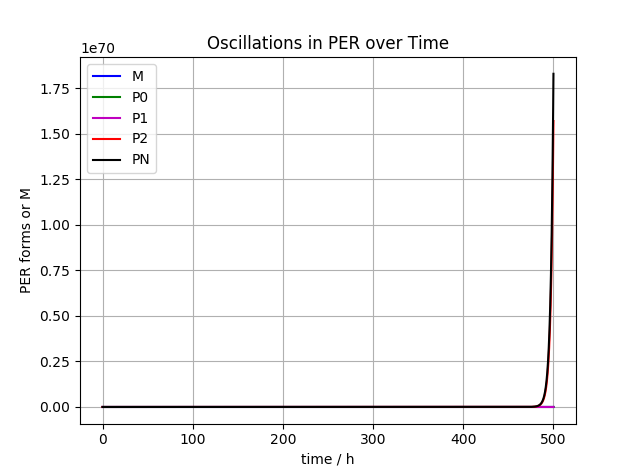
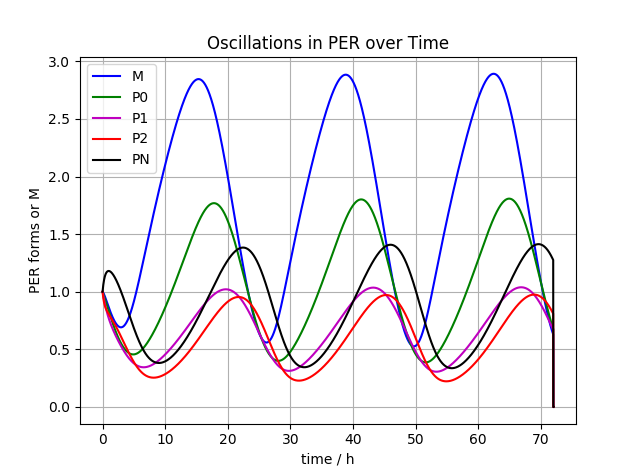
Made Oscillation Work
Made a simple fix (Thanks Stephanie!).

diff --git a/Project 2/python/main.py b/Project 2/python/main.py
@@ -5,92 +5,92 @@ from odes import feed_forward
 from odes import neg_feedback
 from ode_utils import ode15s
 
-"""
-Activator Cascade
-"""
-
-# parameters
-vy_max = 1 # (in units of nM^-1s^-1)
-ky =  .5 # (in units of nM)
-ny = 2
-dy = .1
-vz_max = 1 # (in units of nM^-1s^-1)
-kz = .5 # (in units of nM)
-nz = 2
-dz = .1
-
-params = [vy_max, ky, ny, dy, vz_max, kz, nz, dz]
-
-#initial conditions
-Y0 = 0
-Z0 = 0
-
-yinit = [Y0, Z0]
-
-t0 = 0
-dt = .1
-tf = 150
-
-# Input variable
-for i in range(1,2):
-    X_star = np.array([0]*500 + [i] * 1002).T
-
-    t, sol = ode15s(activator_cascade, yinit, t0, dt, tf, params, inputs=X_star)
-
-    plt.plot(t, X_star, 'b', label='X*')
-    plt.plot(t, sol[:, 0], 'g', label='Y')
-    plt.plot(t, sol[:, 1], 'm', label='Z')
-    plt.legend(loc='best')
-    plt.xlabel('time (s)')
-    plt.ylabel('concentrations (nM)')
-    plt.title('Activator Cascade')
-    plt.grid()
-    plt.show()
-
-
-"""
-Feed-Forward Loop
-"""
-
-# parameters
-vy_max = 1 # (in units of nM^-1s^-1)
-ky =  .5 # (in units of nM)
-ny = 2
-dy = .1
-vz_max = 1 # (in units of nM^-1s^-1)
-kzx = .5 # (in units of nM)
-nzx = 2
-kzy = .5 # (in units of nM)
-nzy = 2
-dz = .1
-
-params = [vy_max, ky, ny, dy, vz_max, kzx, nzx, kzy, nzy, dz]
-
-#initial conditions
-Y0 = 0
-Z0 = 0
-
-yinit = [Y0, Z0]
-
-t0 = 0
-dt = .1
-tf = 150
-
-# Input variable
-for i in range(1,2):
-    X_star = np.array([0]*500 + [i] * 1002).T
-
-    t, sol = ode15s(feed_forward, yinit, t0, dt, tf, params, inputs=X_star)
-
-    plt.plot(t, X_star, 'b', label='X*')
-    plt.plot(t, sol[:, 0], 'g', label='Y')
-    plt.plot(t, sol[:, 1], 'm', label='Z')
-    plt.legend(loc='best')
-    plt.xlabel('time (s)')
-    plt.ylabel('concentrations (nM)')
-    plt.title('Feed-Forward Loop')
-    plt.grid()
-    plt.show()
+# """
+# Activator Cascade
+# """
+#
+# # parameters
+# vy_max = 1 # (in units of nM^-1s^-1)
+# ky =  .5 # (in units of nM)
+# ny = 2
+# dy = .1
+# vz_max = 1 # (in units of nM^-1s^-1)
+# kz = .5 # (in units of nM)
+# nz = 2
+# dz = .1
+#
+# params = [vy_max, ky, ny, dy, vz_max, kz, nz, dz]
+#
+# #initial conditions
+# Y0 = 0
+# Z0 = 0
+#
+# yinit = [Y0, Z0]
+#
+# t0 = 0
+# dt = .1
+# tf = 150
+#
+# # Input variable
+# for i in range(1,2):
+#     X_star = np.array([0]*500 + [i] * 1002).T
+#
+#     t, sol = ode15s(activator_cascade, yinit, t0, dt, tf, params, inputs=X_star)
+#
+#     plt.plot(t, X_star, 'b', label='X*')
+#     plt.plot(t, sol[:, 0], 'g', label='Y')
+#     plt.plot(t, sol[:, 1], 'm', label='Z')
+#     plt.legend(loc='best')
+#     plt.xlabel('time (s)')
+#     plt.ylabel('concentrations (nM)')
+#     plt.title('Activator Cascade')
+#     plt.grid()
+#     plt.show()
+#
+#
+# """
+# Feed-Forward Loop
+# """
+#
+# # parameters
+# vy_max = 1 # (in units of nM^-1s^-1)
+# ky =  .5 # (in units of nM)
+# ny = 2
+# dy = .1
+# vz_max = 1 # (in units of nM^-1s^-1)
+# kzx = .5 # (in units of nM)
+# nzx = 2
+# kzy = .5 # (in units of nM)
+# nzy = 2
+# dz = .1
+#
+# params = [vy_max, ky, ny, dy, vz_max, kzx, nzx, kzy, nzy, dz]
+#
+# #initial conditions
+# Y0 = 0
+# Z0 = 0
+#
+# yinit = [Y0, Z0]
+#
+# t0 = 0
+# dt = .1
+# tf = 150
+#
+# # Input variable
+# for i in range(1,2):
+#     X_star = np.array([0]*500 + [i] * 1002).T
+#
+#     t, sol = ode15s(feed_forward, yinit, t0, dt, tf, params, inputs=X_star)
+#
+#     plt.plot(t, X_star, 'b', label='X*')
+#     plt.plot(t, sol[:, 0], 'g', label='Y')
+#     plt.plot(t, sol[:, 1], 'm', label='Z')
+#     plt.legend(loc='best')
+#     plt.xlabel('time (s)')
+#     plt.ylabel('concentrations (nM)')
+#     plt.title('Feed-Forward Loop')
+#     plt.grid()
+#     plt.show()
 
 """
 Negative Feedback Loop
@@ -121,17 +121,17 @@ params = [n, k1, k2, k3, k4, km, ks, kd, ki, v1, v2, v3, v4, vm, vd, vs,
             small_k1, small_k2]
 
 #initial conditions
-M = .5
-P0 = .5
-P1 = .5
-P2 = .5
+M = 1
+P0 = 1
+P1 = 1
+P2 = 1
 PN = 1
 
 yinit = [M, P0, P1, P2, PN]
 
 t0 = 0
 dt = (72/3600)
-tf = 500
+tf = 72
 
 t, sol = ode15s(neg_feedback, yinit, t0, dt, tf, params)
 

diff --git a/Project 2/python/ode_utils.py b/Project 2/python/ode_utils.py
@@ -1,6 +1,8 @@
 import numpy as np
 from scipy.integrate import odeint
 from scipy.integrate import ode
+import math
+
 """
 Where the input is an array big enough for every timestep, which also can change at
 every timestep.
@@ -9,37 +11,37 @@ TODO: add error checking to make sure that inputs is the right size (given t0, d
 """
 def ode15s(function, yinit, t0, dt, tf, params, inputs=None):
 
-	if(inputs is not None):
-		inputs = np.array([inputs])
-		params = np.array([params])
-		params = np.repeat(params, inputs.shape[1], axis=0).T
-		params = np.concatenate([params, inputs],axis=0)
-		r = set_ode15s(function, yinit, t0, params[:,0])
+    if(inputs is not None):
+        inputs = np.array([inputs])
+        params = np.array([params])
+        params = np.repeat(params, inputs.shape[1], axis=0).T
+        params = np.concatenate([params, inputs],axis=0)
+        r = set_ode15s(function, yinit, t0, params[:,0])
 
-	if(inputs is None):
-		r = set_ode15s(function, yinit, t0, params)
+    if(inputs is None):
+        r = set_ode15s(function, yinit, t0, params)
 
-	t = np.arange(t0, tf+(dt*2), dt)
+    t = np.arange(t0, tf+(dt*2), dt)
 
-	sol = np.zeros((t.shape[0], len(yinit)))
-	sol[0] = yinit
+    sol = np.zeros((t.shape[0], len(yinit)))
+    sol[0] = yinit
 
-	i = 0;
-	if(inputs is None):
-		while r.successful() and r.t < tf:
-			i+=1
-			sol[i] = r.integrate(r.t+dt)
+    i = 0;
+    if(inputs is None):
+        while r.successful() and r.t < tf:
+            i+=1
+            sol[i] = r.integrate(r.t+dt)
 
-	elif(inputs is not None):
-		while r.successful() and r.t < tf:
-			i+=1
-			sol[i] = r.integrate(r.t+dt)
-			r = set_ode15s(function, r.y, r.t, params[:,i])
+    elif(inputs is not None):
+        while r.successful() and r.t < tf:
+            i+=1
+            sol[i] = r.integrate(r.t+dt)
+            r = set_ode15s(function, r.y, r.t, params[:,i])
 
-	return t, sol
+    return t, sol
 
 def set_ode15s(function, yinit, t0, params):
-	return ode(function).set_f_params(params).set_initial_value(yinit, t0).set_integrator('vode', method='bdf', order=5)
+    return ode(function).set_f_params(params).set_initial_value(yinit, t0).set_integrator('vode', method='bdf', order=5)
 
 def hill( X, K, n ):
-	return (math.pow(K,n)/(math.pow(K,n) + math.pow(X,n)))
+    return (math.pow(K,n)/(math.pow(K,n) + math.pow(X,n)))

diff --git a/Project 2/python/odes.py b/Project 2/python/odes.py
@@ -1,4 +1,3 @@
-import math
 from ode_utils import hill
 
 def activator_cascade( t, y, params ):
@@ -87,9 +86,9 @@ def neg_feedback( t, y, params ):
 
     # dydt = M, P0, P1, P2, PN
     dydt[0] = (vs*hill(PN, ki, n)) - (vm*hill(km, M, 1))
-    dydt[1] = ks*M - (v1*hill(k1, P0, 1)) + (v2*hill(k2, P1, 1))
+    dydt[1] = (ks*M) - (v1*hill(k1, P0, 1)) + (v2*hill(k2, P1, 1))
     dydt[2] = (v1*hill(k1, P0, 1)) - (v2*hill(k2, P1, 1)) - (v3*hill(k3, P1, 1)) + (v4*hill(k4, P2, 1))
-    dydt[3] = (v3*hill(k3, P1, 1)) - (v4*hill(k4, P2, 1)) - (k1*P2) + (k2*PN) - (vd*hill(kd, P2, 1))
+    dydt[3] = (v3*hill(k3, P1, 1)) - (v4*hill(k4, P2, 1)) - (small_k1*P2) + (small_k2*PN) - (vd*hill(kd, P2, 1))
     dydt[4] = (small_k1*P2) - (small_k2*PN)
 
     return dydt
